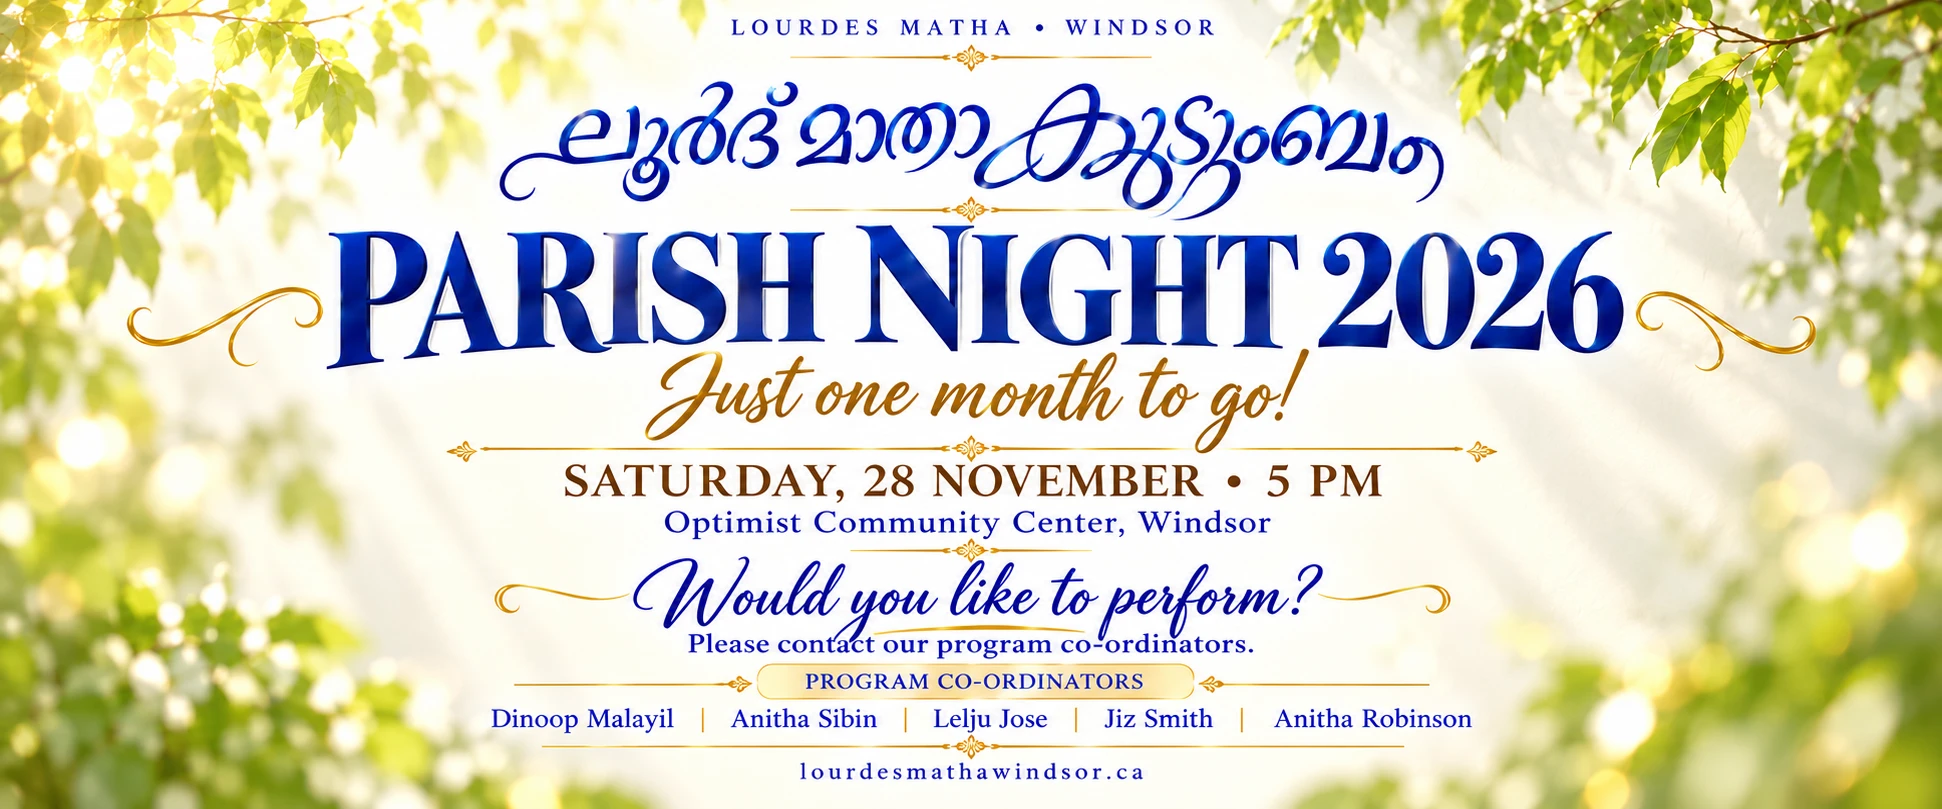
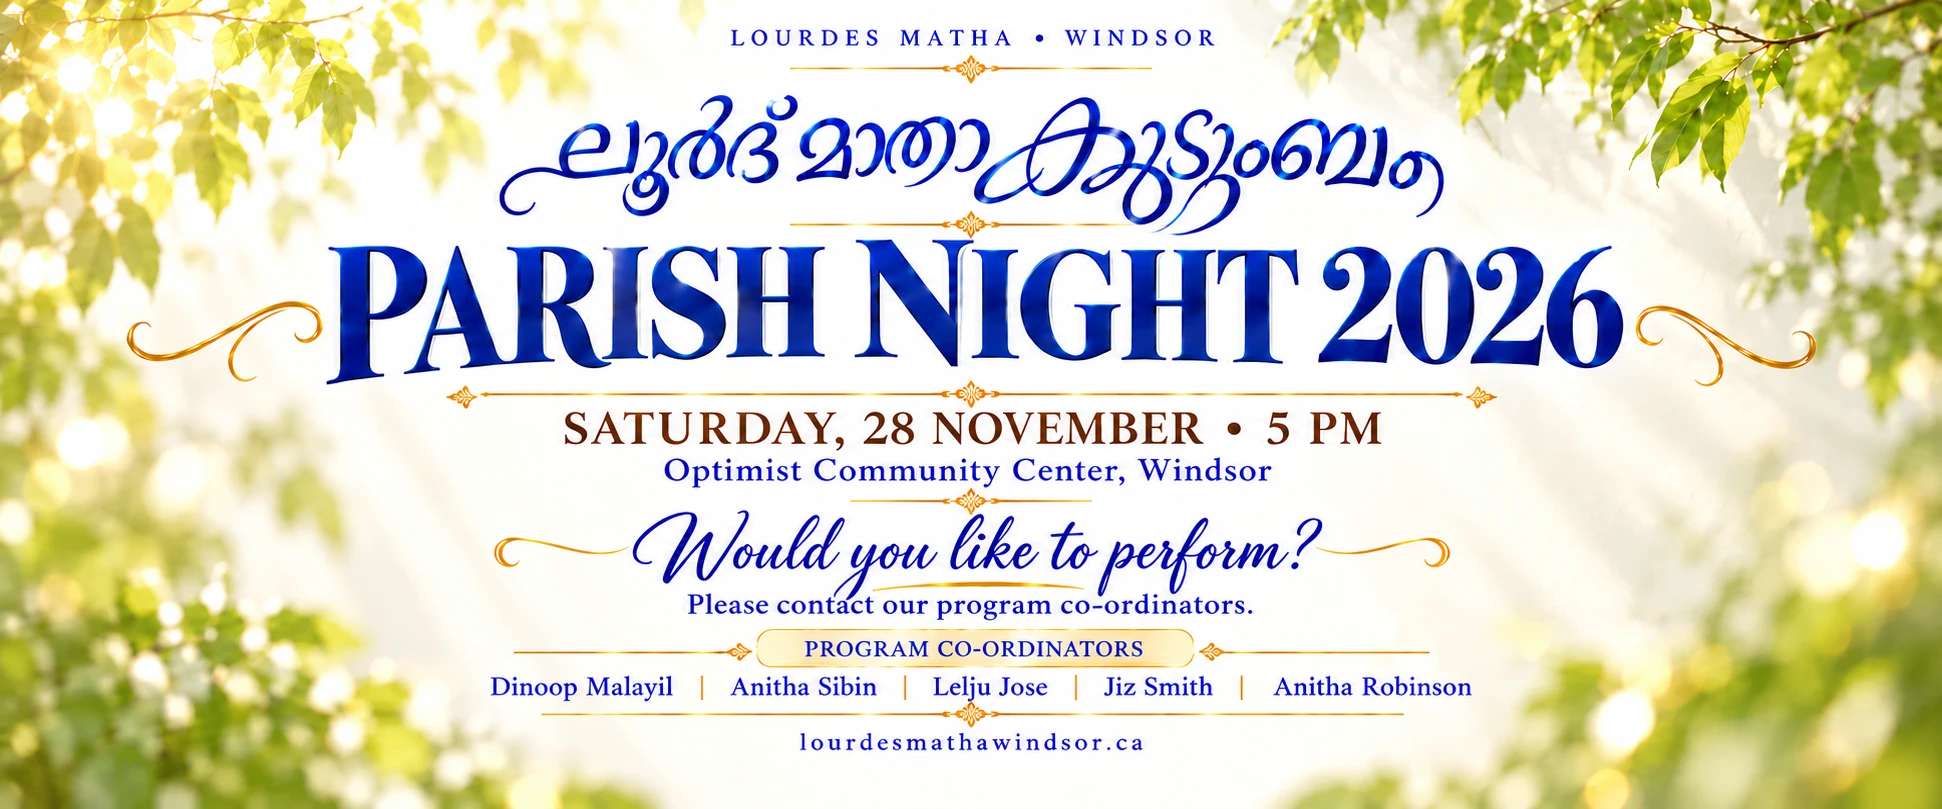
Remove Parish Night countdown and close excess spacing on mobile and desktop posters

diff --git a/index.html b/index.html
@@ -75,8 +75,8 @@
         <div class="event-slide poster-slide poster-parish-night" role="group" aria-roledescription="slide" aria-label="4 of 5" hidden>
             <a class="poster-link" href="parish-night-2026.html" aria-label="Open Parish Night 2026 page">
             <picture>
-                <source media="(max-width: 640px)" srcset="images/events/parish-night-mobile.webp?v=20261030">
-                <img src="images/events/parish-night-desktop.webp?v=20261030" alt="Parish Night 2026 — Saturday, 28 November 2026 at 5 PM, Optimist Community Center, Windsor." decoding="async" loading="eager">
+                <source media="(max-width: 640px)" srcset="images/events/parish-night-mobile.webp?v=20261030-compact">
+                <img src="images/events/parish-night-desktop.webp?v=20261030-compact" alt="Parish Night 2026 — Saturday, 28 November 2026 at 5 PM, Optimist Community Center, Windsor." decoding="async" loading="eager">
             </picture>
             </a>
             <a class="parish-know-more" href="parish-night-2026.html">Know more <span aria-hidden="true">↗</span></a>

diff --git a/parish-night-2026.html b/parish-night-2026.html
@@ -24,8 +24,8 @@
   <header class="pn-hero">
     <h1 class="pn-sr-only">Lourdes Matha Parish Night 2026</h1>
     <picture>
-      <source media="(max-width:640px)" srcset="images/events/parish-night-mobile.webp?v=20261030">
-      <img src="images/events/parish-night-desktop.webp?v=20261030" width="1942" height="809" fetchpriority="high" alt="Parish Night 2026 — Saturday, 28 November at 5 PM. Optimist Community Center, 1075 Ypres Avenue, Windsor, Ontario N8W 4W4. Would you like to perform? Contact our program coordinators listed below.">
+      <source media="(max-width:640px)" srcset="images/events/parish-night-mobile.webp?v=20261030-compact">
+      <img src="images/events/parish-night-desktop.webp?v=20261030-compact" width="1942" height="809" fetchpriority="high" alt="Parish Night 2026 — Saturday, 28 November at 5 PM. Optimist Community Center, 1075 Ypres Avenue, Windsor, Ontario N8W 4W4. Would you like to perform? Contact our program coordinators listed below.">
     </picture>
   </header>
   <nav class="pn-jump" aria-label="Parish Night page sections">
